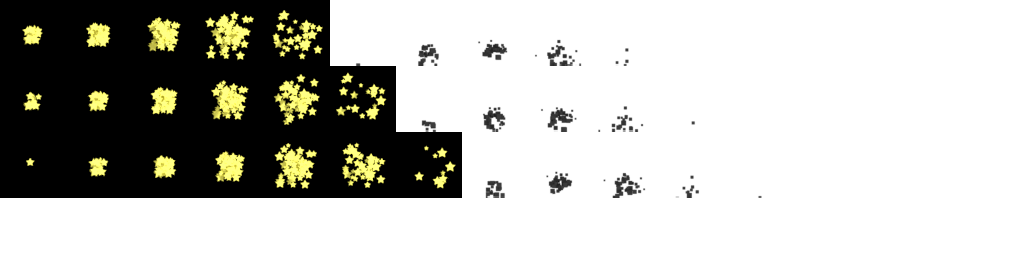
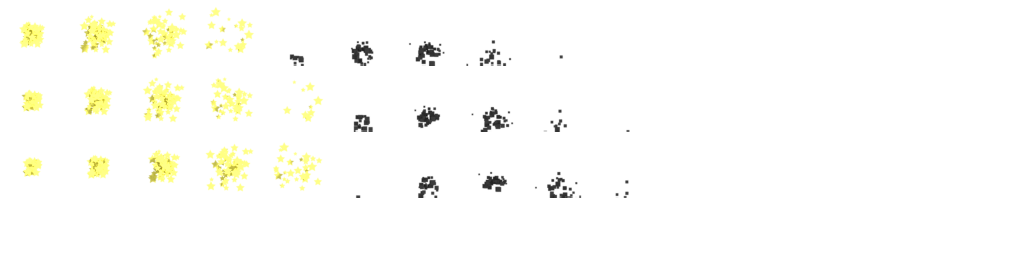
Adding more particle effects

diff --git a/core/src/com/mygdx/game/Ball/Ball.java b/core/src/com/mygdx/game/Ball/Ball.java
@@ -1,11 +1,12 @@
 package com.mygdx.game.Ball;
 
+import com.badlogic.gdx.Gdx;
 import com.badlogic.gdx.graphics.g2d.SpriteBatch;
 import com.badlogic.gdx.math.Vector2;
 import com.badlogic.gdx.utils.Array;
+import com.badlogic.gdx.utils.FloatArray;
 import com.mygdx.game.Basics.CollisionEffect;
 import com.mygdx.game.Basics.LevelData;
-import com.mygdx.game.Obstacles.ObstacleBuilder;
 
 public class Ball
 {
@@ -22,6 +23,8 @@ public class Ball
     private int m_iterator = 0;
     private float m_dtModifier = 1f;
     private CollisionEffect m_collisionEffect = null;
+
+    float timer = 0;
 
     public Ball (float x, float y, float r, float worldW, LevelData ld)
     {
@@ -113,6 +116,9 @@ public class Ball
         m_history.addToHistory(new com.mygdx.game.Basics.Circle(m_position, m_radius, m_iterator++));
 
         m_collisionEffect.update(dt);
+
+        timer += dt;
+
     }
     private void handleEdges()
     {
@@ -175,7 +181,7 @@ public class Ball
             alignToTheLeftOfPosition(pos);
         }
 
-        collisionEffect(pos, side);
+        collisionEffect(pos, side, "splash", 100);
         collisionSound();
 
         flipVelocityY();
@@ -260,10 +266,18 @@ public class Ball
         m_dtModifier = 1f;
     }
 
-    public void collisionEffect(Vector2 collisionPosition, int side)
+    public void collisionEffect(Vector2 collisionPosition, int side, String name)
     {
-        m_collisionEffect.setCracked(collisionPosition, side);
+        m_collisionEffect.setAnimation(name);
+        m_collisionEffect.startEffect(collisionPosition, side);
     }
+
+    public void collisionEffect(Vector2 collisionPosition, int side, String name, int spriteMove)
+    {
+        m_collisionEffect.setAnimation(name);
+        m_collisionEffect.startEffect(collisionPosition, side, spriteMove);
+    }
+
     @Override
     public String toString()
     {

diff --git a/core/src/com/mygdx/game/Basics/CollisionEffect.java b/core/src/com/mygdx/game/Basics/CollisionEffect.java
@@ -17,13 +17,15 @@ public class CollisionEffect extends Drawable
     Vector2 m_Pos = null;
     TextureAtlas m_atlas;
     Animation m_animation;
+    Array<TextureAtlas.AtlasRegion> m_region;
     float m_elapsedTime = 0;
+    int m_spriteMove = 0;
 
     public CollisionEffect()
     {
         m_atlas = new TextureAtlas(Gdx.files.internal("gameObjects/collisioneffects.pack"));
-        Array<TextureAtlas.AtlasRegion> splashRegion = m_atlas.findRegions("splash");
-        m_animation = new Animation(0.05f, splashRegion);
+        m_region = m_atlas.findRegions("splash");
+        m_animation = new Animation(0.05f, m_region);
     }
 
     @Override
@@ -38,6 +40,7 @@ public class CollisionEffect extends Drawable
             }
             else
             {
+                m_Pos.y -= m_spriteMove*dt;
                 m_elapsedTime += dt;
             }
         }
@@ -53,11 +56,25 @@ public class CollisionEffect extends Drawable
 
     }
 
-    public void setCracked(Vector2 pos, int side)
+    public void startEffect(Vector2 pos, int side)
+    {
+        startEffect(pos, side, 0);
+    }
+
+    public void startEffect(Vector2 pos, int side, int spriteMove)
     {
         m_Pos = new Vector2(pos);
+        m_spriteMove = spriteMove;
         m_isCracked = true;
+    }
 
+    public void setAnimation(String name)
+    {
+        if(m_atlas.findRegions(name) != null)
+        {
+            m_region = m_atlas.findRegions(name);
+            m_animation = new Animation(0.05f, m_region);
+        }
     }
 
     @Override

diff --git a/core/src/com/mygdx/game/Ball/BallStateSuperSpeed.java b/core/src/com/mygdx/game/Ball/BallStateSuperSpeed.java
@@ -38,7 +38,8 @@ public class BallStateSuperSpeed extends BallState
         m_timer = 3f;
         m_particles = new Particles(m_texture, 15, 32, 32);
         m_particles.setColor(m_tint);
-        m_particles.setFade(0.5f, 0);
+        m_particles.setFade(0.2f, 0.01f);
+        m_ball.collisionEffect(m_ball.getPosition(), 1, "powerup", 250);
     }
 
     public void setBall(Ball b)

diff --git a/core/src/com/mygdx/game/Obstacles/StaticObstacle.java b/core/src/com/mygdx/game/Obstacles/StaticObstacle.java
@@ -39,7 +39,7 @@ public class StaticObstacle extends Obstacle
         float distanceY = c.m_y - y;
 
         float distanceSquared = (distanceX * distanceX) + (distanceY * distanceY);
-        //m_ob.setCracked(new Vector2(x,y));
+        //m_ob.startEffect(new Vector2(x,y));
         return new Vector2(x,y);
     }
 

diff --git a/core/src/com/mygdx/game/Ball/BallStateUltraRapid.java b/core/src/com/mygdx/game/Ball/BallStateUltraRapid.java
@@ -29,6 +29,7 @@ public class BallStateUltraRapid extends BallState
         m_sound = setupSound();
         m_ball.setDtModifier(0.5f);
         m_timer = 5f;
+        m_ball.collisionEffect(m_ball.getPosition(), 1, "powerup", 250);
     }
 
     public void setBall(Ball b)

diff --git a/core/src/com/mygdx/game/Ball/BallStatePassThrough.java b/core/src/com/mygdx/game/Ball/BallStatePassThrough.java
@@ -31,6 +31,7 @@ public class BallStatePassThrough extends BallState
         setupSprite();
         m_sound = setupSound();
         m_timer = 4f;
+        m_ball.collisionEffect(m_ball.getPosition(), 1, "powerup", 250);
     }
 
     public void setBall(Ball b)

diff --git a/core/src/com/mygdx/game/Basics/Particles.java b/core/src/com/mygdx/game/Basics/Particles.java
@@ -120,7 +120,7 @@ public class Particles implements Disposable
         int i = 1;
         for(Sprite s : m_sprites)
         {
-            s.setAlpha(1-(factor*i));
+            s.setAlpha(start-(factor*i));
             i++;
         }
 
